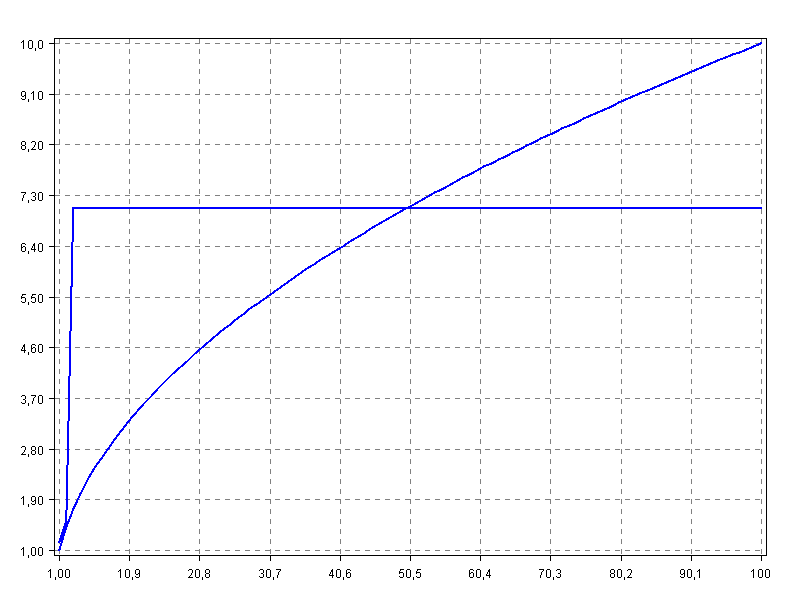
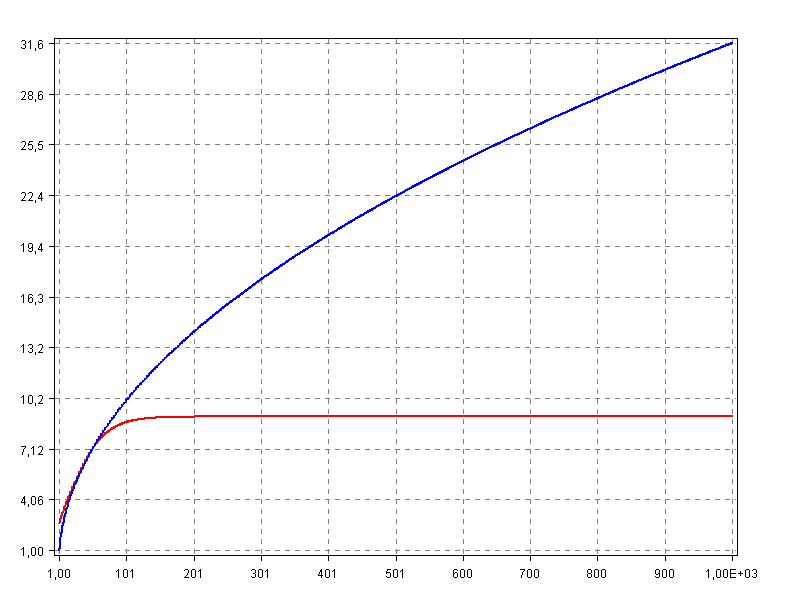
Działa w miare

diff --git a/MLP_SISE/src/Main.java b/MLP_SISE/src/Main.java
@@ -2,6 +2,7 @@ import Logic.Layer;
 import Logic.Network;
 import Plot.Plot;
 
+import java.awt.*;
 import java.io.IOException;
 import java.util.ArrayList;
 import java.util.Collections;
@@ -12,23 +13,24 @@ public class Main {
 
[1 lines of base64/hex data omitted]
         String projPath = "D:\\UnityProjects\\MLP_SISE\\MLP_SISE";
-        int numberOfEpocs = 100;
+        int numberOfEpocs = 50;
         Double sumaBledzikow;
         ArrayList<Integer> neuronsOnLayers = new ArrayList<>();
-        neuronsOnLayers.add(50);
-        neuronsOnLayers.add(15);
         neuronsOnLayers.add(10);
-        DataService dataService = new DataService(true);
-        DataService xpom = new DataService(false);
+        //neuronsOnLayers.add(30);
+        //neuronsOnLayers.add(30);
+        //neuronsOnLayers.add(10);
+        DataService dataService = new DataService(true,100);
+        DataService xpom = new DataService(false,1000);
         ArrayList<Double> bledzik = new ArrayList<>();
         ArrayList<Double> bledzikipom = new ArrayList<>();
         ArrayList<Double> x = new ArrayList<>();
-        for(int i =1;i<=100;i++){
+        for(int i =1;i<=1000;i++){
             x.add((double)i);
         }
         ArrayList<Double> y = new ArrayList<>();
         ArrayList<Double> x1 = new ArrayList<>();
-        for(int i =1;i<=100;i++){
+        for(int i =1;i<=1000;i++){
             x1.add((double)i);
         }
         ArrayList<Double> y1 = new ArrayList<>();
@@ -60,7 +62,7 @@ public class Main {
         for(int i = 0;i<x.size();i++){
             y.add(siec.FeedForward(xpom.testData.get(i)).get(0));
         }
-        Plot plot = Plot.plot(null).series("Siec",Plot.data().xy(x,y),null).series("poprawne",Plot.data().xy(x1,y1),null);;
+        Plot plot = Plot.plot(null).series("Siec",Plot.data().xy(x,y),new Plot.DataSeriesOptions().color(Color.RED)).series("poprawne",Plot.data().xy(x1,y1),null);;
         try {
             plot.save("PlotTest_1","png");
         } catch (IOException e) {

diff --git a/MLP_SISE/src/Logic/Network.java b/MLP_SISE/src/Logic/Network.java
@@ -8,7 +8,7 @@ import java.util.Collections;
 
 public class Network {
     ArrayList<Layer> layers;
-    Double learningRate = 0.01;
+    Double learningRate = 0.001;
     public Network(int numberOfInputs,int numberOfOutputs,int numberOfHidenLayers,ArrayList<Integer> numberOfNeuronsInEachHidenLayer){
         layers = new ArrayList<>();
         layers.add(new Layer(numberOfNeuronsInEachHidenLayer.get(0),numberOfInputs,new Sigma()));
@@ -49,9 +49,13 @@ public class Network {
             for(int j = 0;j < layers.get(i).neurons.size();j++){
                 Double sumB = 0d;
                 for(int x = 0;x < layers.get(i+1).neurons.size();x++){
-                    sumB += errorsInLayers.get(errorsInLayers.size()-1).get(x)*layers.get(i+1).neurons.get(x).get(j);
+                    Double pomA = errorsInLayers.get(errorsInLayers.size()-1).get(x);
+                    Double pomB = layers.get(i+1).neurons.get(x).get(j);
+                    sumB += (pomA*pomB);
                 }
-                errors.add(sumB*layers.get(i).activationFunction.Derivative(layers.get(i).outputsOfNeurons.get(j)));
+                Double pomC = layers.get(i).activationFunction.Derivative(layers.get(i).outputsOfNeurons.get(j));
+                Double pomD = sumB*pomC;
+                errors.add(pomD);
             }
             errorsInLayers.add(errors);
         }

diff --git a/MLP_SISE/src/Logic/Layer.java b/MLP_SISE/src/Logic/Layer.java
@@ -20,9 +20,9 @@ public class Layer {
         for(int i=0;i<numberOfNeurons;i++){
             ArrayList<Double> temp = new ArrayList<>();
             for(int j=0;j<numberOfInputs;j++){
-                temp.add((rng.nextDouble()-0.5)*20);
+                temp.add((rng.nextDouble()-0.5));
             }
-            temp.add((rng.nextDouble()*0.5)*20);
+            temp.add((rng.nextDouble()-0.5));
             neurons.add(temp);
         }
         //System.out.println(neurons);

diff --git a/MLP_SISE/src/DataService.java b/MLP_SISE/src/DataService.java
@@ -4,8 +4,8 @@ import java.util.Collections;
 
 public class DataService {
     ArrayList<ArrayList<Double>> testData = new ArrayList<>();
-    public DataService(boolean isRandomized){
-        for(int i = 1;i<=100;i++ ){
+    public DataService(boolean isRandomized, int range){
+        for(int i = 1;i<=range;i++ ){
             ArrayList<Double> inputs = new ArrayList<>();
             inputs.add((double) i);
             testData.add(inputs);
